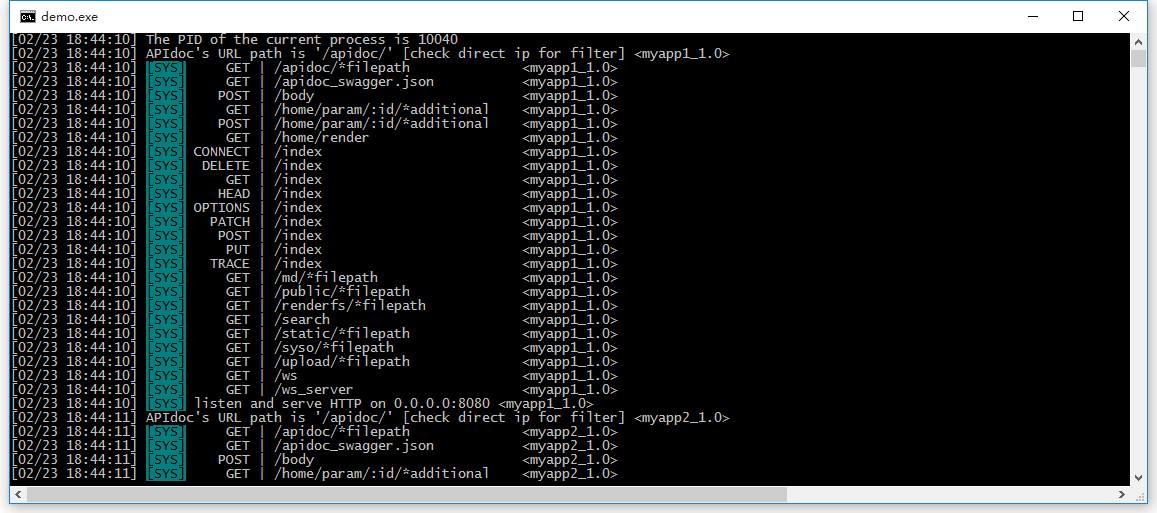
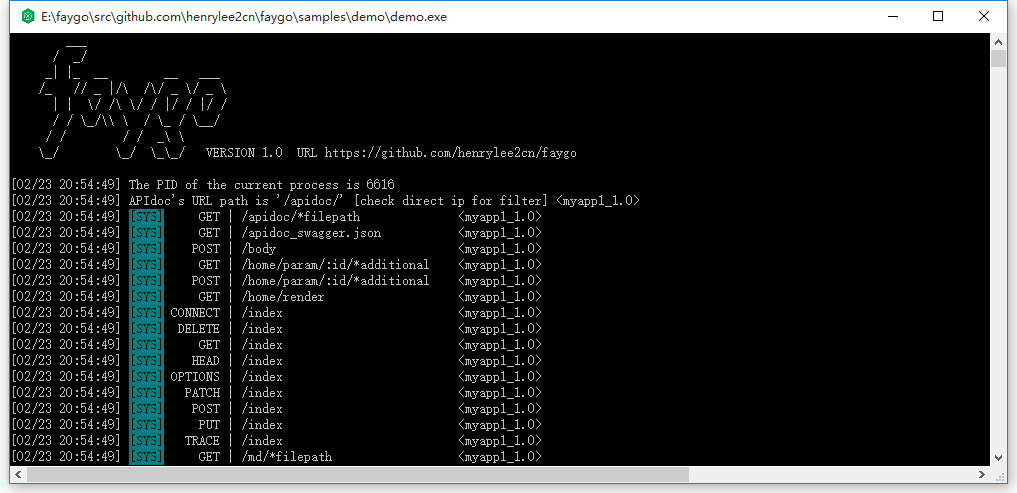
format files

Changed region(s): [[0.0, 0.0, 1.0, 1.0]]

diff --git a/faygo.go b/faygo.go
@@ -37,14 +37,14 @@ const (
 	VERSION = "1.0"
 
 	banner = `
-   _______  _                _                    
-  |__   __|| |    [ ]       | |                   
-     | |   | |_    _    _   | |  _   ___    ___   
-     | |   |  _ \ | | / _ \ | |/ /  / _ \  / _ \  
-     | |   | | | || || | | ||   -  | |_| || |_| | 
-     |_|   |_| |_||_||_| |_||_| \_\ \_  /  \___/  
-                                    _ \ \         
-                                    \_\_/         ` + VERSION + "\n"
+        ___                    
+      /  _/                    
+     _| |_  __        __   ___ 
+    /_   // _ |/\  /\/ _ \/ _ \
+      | |  \/ /\ \/ / |/ / |/ /
+      / / \_/\\ \  / \_ / \__/ 
+     / /        / /  _\ \      
+    \_/        \_/  \_\_/   VERSION ` + VERSION + "  URL https://github.com/henrylee2cn/faygo\n"
 
 	// SHUTDOWN_TIMEOUT the default time-out period for the service shutdown
 	SHUTDOWN_TIMEOUT = 1 * time.Minute

diff --git a/samples/demo/main.go b/samples/demo/main.go
@@ -8,9 +8,9 @@ import (
 
 func main() {
 	faygo.SetShutdown(time.Minute, func() error {
-		faygo.Debug("finalizer 等待5s...")
-		time.Sleep(5 * time.Second)
-		faygo.Debug("finalizer 5s到时！")
+		faygo.Debug("finalizer 等待3s...")
+		time.Sleep(3 * time.Second)
+		faygo.Debug("finalizer 3s到时！")
 		return nil
 	})
 	faygo.SetUpload("./upload/0", false, false)
